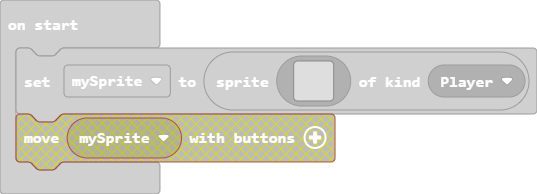
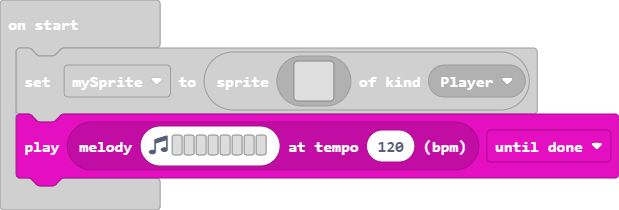
Update main.blocks, main.ts

diff --git a/main.ts b/main.ts
@@ -16,3 +16,4 @@ let mySprite = sprites.create(img`
     . . . . . . . . . . . . . . . . 
     . . . . . . . . . . . . . . . . 
     `, SpriteKind.Player)
+music.play(music.stringPlayable("- - - - - - - - ", 120), music.PlaybackMode.UntilDone)
